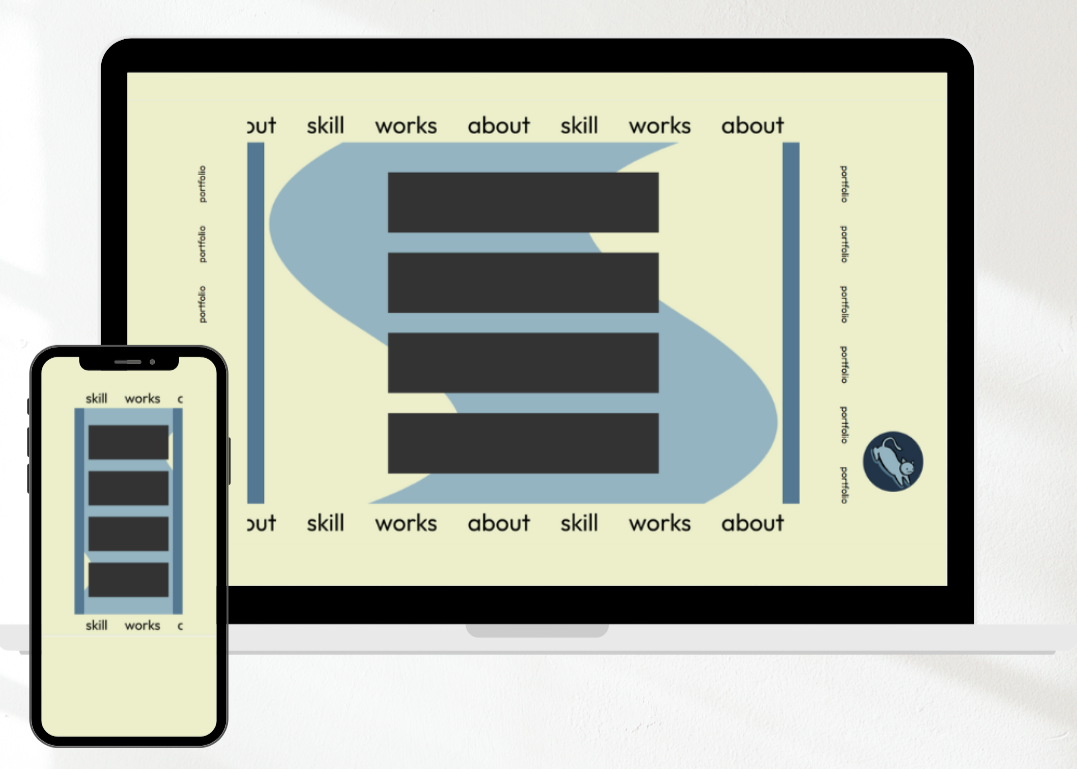
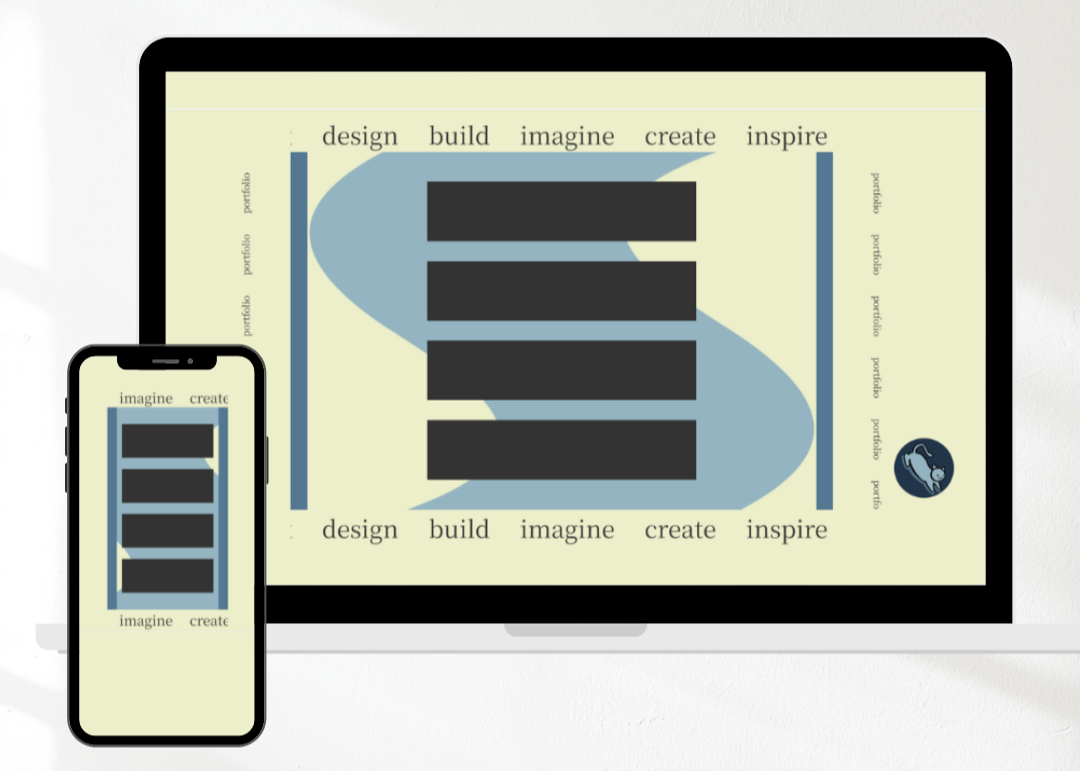
モック画像変更

Changed region(s): [[0.0, 0.0312, 0.9499, 0.9987], [0.9192, 0.8427, 1.0, 0.8739]]

diff --git a/index.html b/index.html
@@ -1,5 +1,6 @@
 <!DOCTYPE html>
 <html lang="ja">
+
 <head>
   <meta charset="UTF-8">
   <meta name="viewport" content="width=device-width, initial-scale=1.0">
@@ -14,12 +15,18 @@
     <div class="marquee-wrapper">
       <div class="marquee-track" id="track">
         <div class="text" id="marquee">
-        <p>think</p>
-        <p>design</p>
-        <p>build</p>
-        <p>imagine</p>
-        <p>create</p>
-        <p>inspire</p>
+          <p>think</p>
+          <p>design</p>
+          <p>build</p>
+          <p>imagine</p>
+          <p>create</p>
+          <p>inspire</p>
+          <p>think</p>
+          <p>design</p>
+          <p>build</p>
+          <p>imagine</p>
+          <p>create</p>
+          <p>inspire</p>
         </div>
       </div>
     </div>
@@ -49,12 +56,19 @@
         <p>portfolio</p>
         <p>portfolio</p>
         <p>portfolio</p>
-        <img src="img/neco-icon.png" alt="猫のアイコン" width="100px" height="100px" class="open-modal" id="sample04" data-target="modal8">
+        <img src="img/neco-icon.png" alt="猫のアイコン" width="100px" height="100px" class="open-modal" id="sample04"
+          data-target="modal8">
       </div>
     </div>
     <div class="marquee-wrapper">
       <div class="marquee-track" id="track">
         <div class="text" id="down">
+          <p>think</p>
+          <p>design</p>
+          <p>build</p>
+          <p>imagine</p>
+          <p>create</p>
+          <p>inspire</p>
           <p>think</p>
           <p>design</p>
           <p>build</p>
@@ -74,13 +88,13 @@
 
       if (!marquee.dataset.cloned) {
         const clone = marquee.cloneNode(true);
-        clone.removeAttribute("id"); // ID重複防止
+        clone.removeAttribute("id");
         marquee.parentElement.appendChild(clone);
         marquee.dataset.cloned = "true";
 
         // アニメーション速度調整
         const totalWidth = marquee.offsetWidth;
-        const speed = 50; // px/秒
+        const speed = 50;
         const duration = totalWidth / speed;
 
         marquee.style.animationDuration = duration + 's';
@@ -95,13 +109,13 @@
 
       if (!down.dataset.cloned) {
         const clone = down.cloneNode(true);
-        clone.removeAttribute("id"); // ID重複防止
+        clone.removeAttribute("id");
         down.parentElement.appendChild(clone);
         down.dataset.cloned = "true";
 
         // アニメーション速度調整
         const totalWidth = down.offsetWidth;
-        const speed = 50; // px/秒
+        const speed = 50;
         const duration = totalWidth / speed;
 
         down.style.animationDuration = duration + 's';
@@ -260,7 +274,7 @@
           以下の6ページを制作しました：<br>
           トップページ／会社概要／事業内容／新着情報／お問い合わせ／採用情報
         </p><br>
-        <p>  
+        <p>
           ワイヤーフレームにはFigma、新着情報のタブ切り替えにはJavaScriptを使用しました。構成や導線は企業サイトに多い構造をベースに、ユーザーが迷わず目的の情報へアクセスできるよう配慮しました。全ページを通して、一貫したレイアウト設計を行っています。
         </p>
       </div>
@@ -352,7 +366,7 @@
         <p>6人日</p>
         <h3>デザインの意図</h3>
         <p>
-          自身のポートフォリオサイトとして、視認性と丁寧さを兼ね備えた落ち着いたデザインを意識しました。<br>  
+          自身のポートフォリオサイトとして、視認性と丁寧さを兼ね備えた落ち着いたデザインを意識しました。<br>
           フォントは可読性の高いものを選び、全体のトーンとしては「新人らしい誠実さ」と「見やすさ」を両立させています。
         <p><br>
           メインカラーにはくすみブルーと淡いグリーンを使用し、爽やかで優しい印象に仕上げました。<br>ネイビーを締め色として加えることで、全体に統一感と深みを持たせています。<br>
@@ -364,7 +378,7 @@
           さらに、ベルトコンベア式に文字が流れるJSアニメーション（※コピペベース）を追加し、ユーザーの視線誘導と離脱防止を狙いました。
         </p>
         <h3>サイト概要・制作について</h3>
-         <p>
+        <p>
           2ページを制作しました：TOPページ／作品詳細ページ
         </p><br>
         <p>
@@ -403,7 +417,7 @@
         <p>6人日</p>
         <h3>デザインの意図</h3>
         <p>
-          自身のポートフォリオサイトとして、視認性と丁寧さを兼ね備えた落ち着いたデザインを意識しました。<br>  
+          自身のポートフォリオサイトとして、視認性と丁寧さを兼ね備えた落ち着いたデザインを意識しました。<br>
           フォントは可読性の高いものを選び、全体のトーンとしては「新人らしい誠実さ」と「見やすさ」を両立させています。
         <p><br>
           メインカラーにはくすみブルーと淡いグリーンを使用し、爽やかで優しい印象に仕上げました。<br>ネイビーを締め色として加えることで、全体に統一感と深みを持たせています。<br>
@@ -415,7 +429,7 @@
           さらに、ベルトコンベア式に文字が流れるJSアニメーション（※コピペベース）を追加し、ユーザーの視線誘導と離脱防止を狙いました。
         </p>
         <h3>サイト概要・制作について</h3>
-         <p>
+        <p>
           2ページを制作しました：TOPページ／作品詳細ページ
         </p><br>
         <p>
@@ -464,7 +478,7 @@
           以下の6ページを制作しました：<br>
           トップページ／会社概要／事業内容／新着情報／お問い合わせ／採用情報
         </p><br>
-        <p>  
+        <p>
           ワイヤーフレームにはFigma、新着情報のタブ切り替えにはJavaScriptを使用しました。構成や導線は企業サイトに多い構造をベースに、ユーザーが迷わず目的の情報へアクセスできるよう配慮しました。全ページを通して、一貫したレイアウト設計を行っています。
         </p>
       </div>
@@ -560,7 +574,7 @@
       });
     });
 
-// 項目アニメーション
+    // 項目アニメーション
     const observer = new IntersectionObserver(entries => {
       entries.forEach(entry => {
         if (entry.isIntersecting) {
@@ -574,4 +588,5 @@
     });
   </script>
 </body>
+
 </html>
